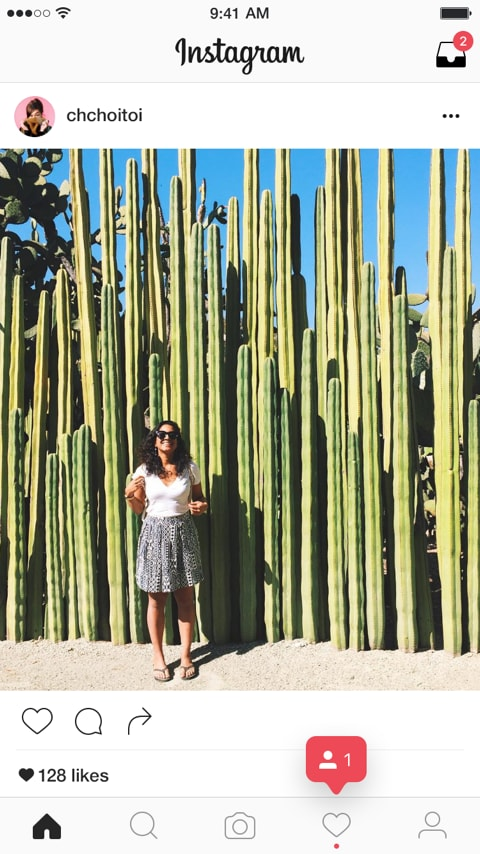
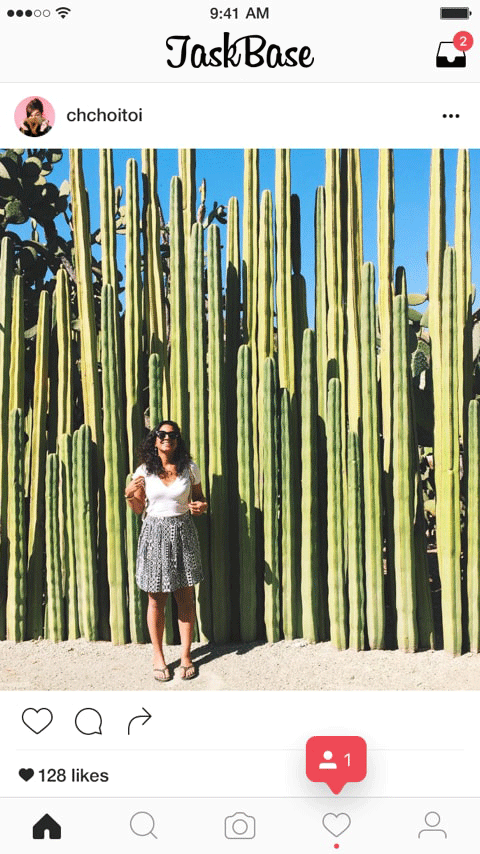
checkpoint one everything works

diff --git a/app/assets/stylesheets/application.scss b/app/assets/stylesheets/application.scss
@@ -1,58 +1,49 @@
 @import "bootstrap";
-
+@import "toastr";
 body {
   background-color: #fafafa;
   font-size: 14px;
   color: #262626;
 }
-
 .navbar {
   background-color: #fff;
   border-bottom: 1px solid rgba(0,0,0,.0975);
   height: 77px;
 }
-
 .core-sprite {
   background-image: image-url("core-sprite-2x.png");
   background-size: 405px 379px;
   background-repeat: no-repeat;
 }
-
 .navbar-brand {
   background-position: -176px 0;
   height: 35px;
   width: 176px;
 }
-
 .hide-text {
   display: block;
   overflow: hidden;
   text-indent: 110%;
   white-space: nowrap;
 }
-
 .explore-icon {
   background-position: -50px -355px;
   height: 24px;
   width: 24px;
 }
-
 .notification-icon {
   background-position: -353px -298px;
   height: 24px;
   width: 24px;
 }
-
 .profile-icon {
   background-position: -308px -176px;
   height: 24px;
   width: 24px;
 }
-
 .nav-item:not(:first-child) {
   margin-left: 30px
 }
-
 .box{
   background-color: #fff;
   border: 1px solid #c6e6e6;
@@ -60,13 +51,11 @@ body {
   padding: 10px 0;
   margin: 0 0 10px;
 }
-
 .brand-name-img{
   background-position: 0 0;
   height: 51px;
   width: 175px;
 }
-
 // Landing
 .landing-left{
   .dummy-phone{
@@ -79,76 +68,62 @@ body {
     margin-left: -35px;
     margin-right: -15px;
   }
-
   .screen-shot{
     position: absolute;
     top: 99px;
     right: 63px;
-
     .item{
       position: absolute;
     }
   }
 }
-
 .landing-right {
   .form-login {
     width: 350px;
-
     form {
       padding: 0 40px;
-
       .btn-primary {
         width: 100%;
         line-height: 14px;
         font-size: 14px;
         font-weight: 600;
       }
-
       input {
         border: 1px solid #efefef;
       }
-
       .form-check-label {
         padding: 0;
         font-size: 15px;
         color: #262626;
       }
     }
-
     .brand-name-img {
       margin: 22px auto 8px;
     }
   }
-
   .redirect-links {
     width: 350px;
   }
 }
-
 footer .nav-item{
   color: #003569 !important;
   font-size: 12px;
   font-weight: bold;
 }
-
 .light-color{
   color: #999;
 }
-
 .carousel-fade{
   .carousel-item.active{
     opacity: 1;
     display: block;
   }
-
   .carousel-item{
-    transition: opacity 0.6s ease-in-out;
+    transition: opacity 2s ease-in-out;
     opacity: 0;
     position: relative;
     display: block;
   }
-
   .carousel-item:not(.active){
     position: absolute;
     top: 0px;

diff --git a/app/assets/javascripts/application.js b/app/assets/javascripts/application.js
@@ -14,7 +14,7 @@
 //= require activestorage
 //= require turbolinks
 //= require_tree .
-
-//= require jquery3
-//= require popper
-//= require bootstrap-sprockets
+// = require jquery3
+// = require popper
+// = require bootstrap-sprockets
+// = require toastr

diff --git a/app/controllers/application_controller.rb b/app/controllers/application_controller.rb
@@ -1,2 +1,13 @@
 class ApplicationController < ActionController::Base
+  protect_from_forgery with: :exception
+
+  before_action :configure_permitted_parameters, if: :devise_controller?
+
+  protected
+
+  def configure_permitted_parameters
+    devise_parameter_sanitizer.permit(:sign_up, keys: [:name])
+    devise_parameter_sanitizer.permit(:account_update, keys: [:name])
+  end
+
 end

diff --git a/config/routes.rb b/config/routes.rb
@@ -7,5 +7,5 @@ Rails.application.routes.draw do
   # resources :users
   # For details on the DSL available within this file, see http://guides.rubyonrails.org/routing.html
 
-  # root to: 'home#index'
+  root to: 'pages#home'
 end

diff --git a/app/models/user.rb b/app/models/user.rb
@@ -7,4 +7,9 @@ class User < ApplicationRecord
   has_many :projects, through: :user_projects
   has_many :comments
   has_many :projects, through: :comments
+
+  validates :name, presence: true, length: {maximum: 25} 
+
+
+
 end

diff --git a/app/controllers/pages_controller.rb b/app/controllers/pages_controller.rb
@@ -1,0 +1,8 @@
+class PagesController < ApplicationController
+
+  def home
+    if !user_signed_in?
+      redirect_to new_user_session_path
+    end
+  end
+end

diff --git a/app/models/task.rb b/app/models/task.rb
@@ -1,2 +1,3 @@
 class Task < ApplicationRecord
+  belongs_to :project
 end
